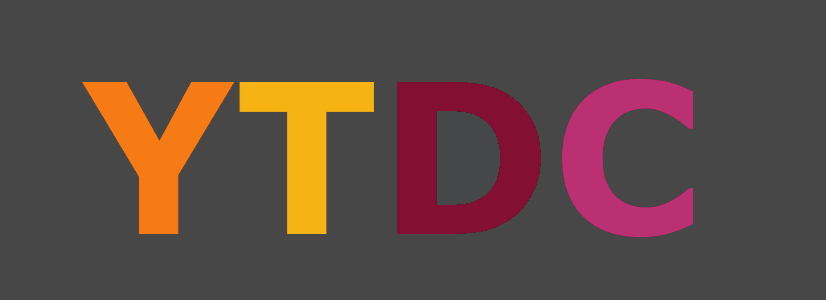
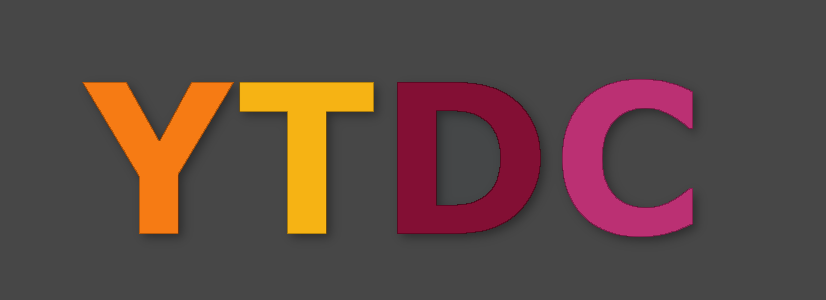
shadows added

diff --git a/index.html b/index.html
@@ -14,7 +14,7 @@
 </head>
 <body>
 	<div class="jumbotron-fluid">
-		<img class="banner" src="images/banner4.png" width="100%">
+		<img class="banner" src="images/banner.png" width="100%">
 		<img class="banner1" src="images/banner1.png" width="100%">
 		<img class="banner2" src="images/banner2.png" width="100%">
 	</div>

diff --git a/style.css b/style.css
@@ -12,7 +12,7 @@ nav {
 
 /* Admissions dropdown*/
 .single-menu {
-	width: 200px;
+	width: 400px;
 	background-color: #474747;
 	padding: 10px 10px 10px 10px;
 }
